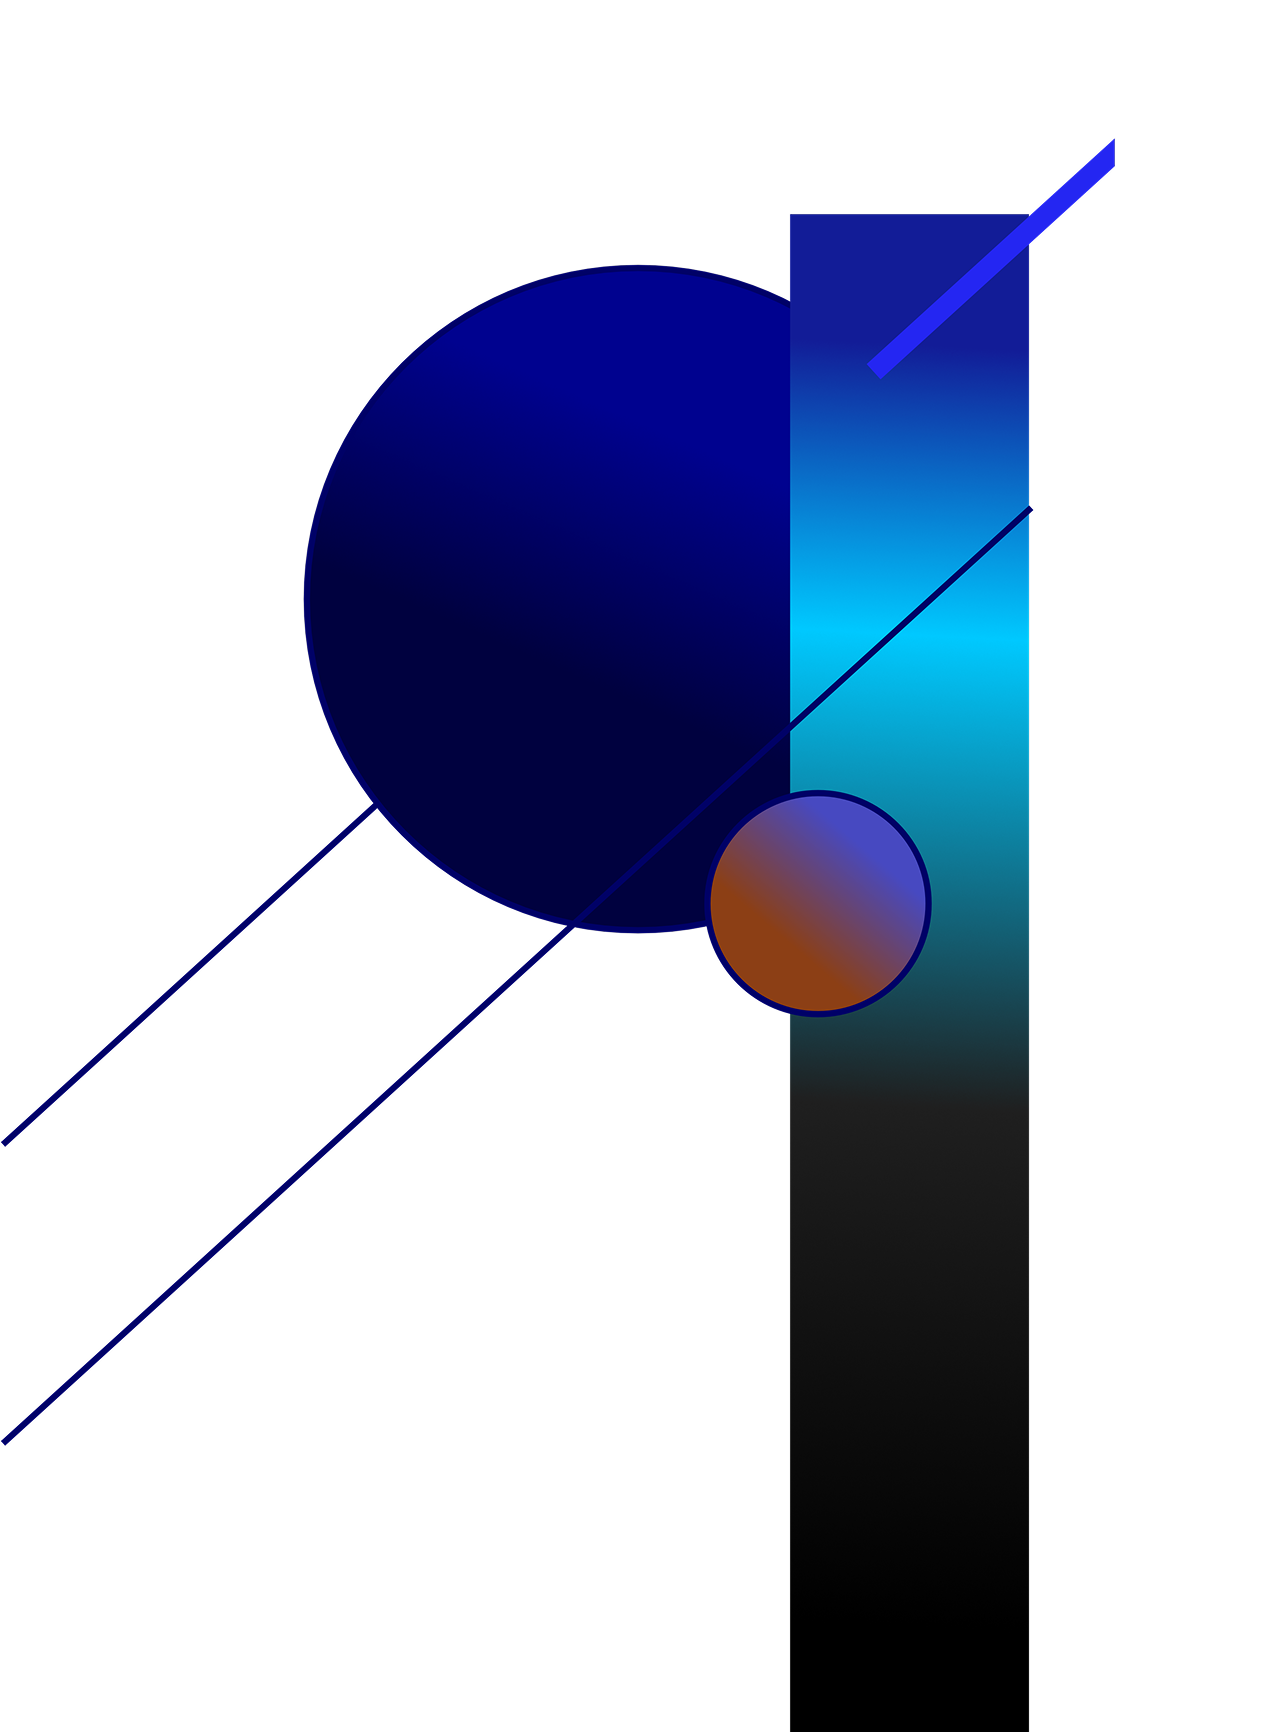
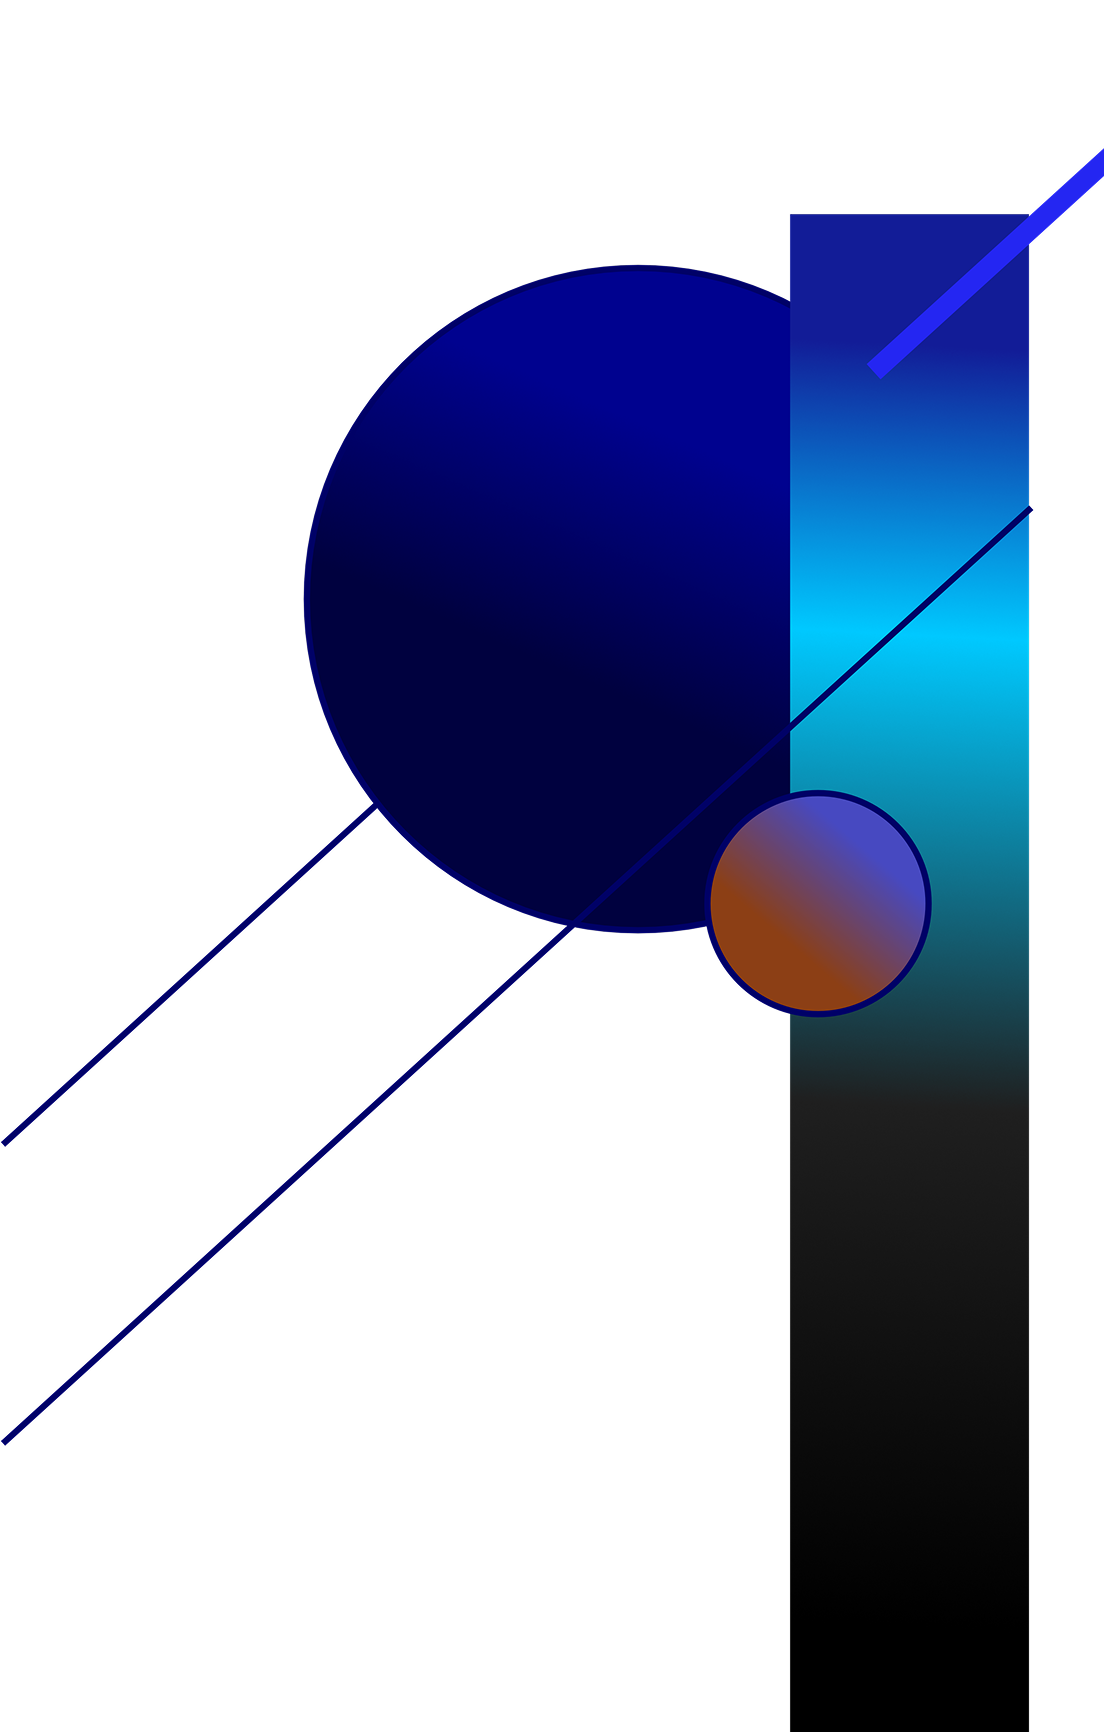
recent

diff --git a/index.html b/index.html
@@ -8,43 +8,36 @@
      <link rel="assets" href="img">
     <script src="https://kit.fontawesome.com/37c86ed8dc.js" crossorigin="anonymous"></script>
     <style>
-@import url('https://fonts.googleapis.com/css2?family=Space+Grotesk:wght@300..700&display=swap');
-@import url('https://fonts.googleapis.com/css2?family=Inconsolata:wght@200..900&display=swap');
-</style>
+       @import url('https://fonts.googleapis.com/css2?family=Space+Grotesk:wght@300..700&display=swap');
+      @import url('https://fonts.googleapis.com/css2?family=Inconsolata:wght@200..900&display=swap');
+       @import url('https://fonts.googleapis.com/css2?family=PT+Mono&display=swap');
+      
+      
+    </style>
 </head>
 <body>
-    <header>
-        <nav id="navbar">
-            <div class="logo"> <img src="/assets/img/centauri logo 1.png" alt=" logo-nav"></div>
+<header>
+    <nav class="navbar">
+       <img src="/assets/img/centauri logo 1.png" 
             <ul class="nav-links">  
-              <img src="/assets/img/profile-button.png" alt="profile-nav">
-              <button> log in</button>
+                <li><a href="#inicio">inicio</a></li>
+                <li><a href="#noticias">noticias</a></li>
+                <li><a href="#foro">foro</a></li>
+                <li><a href="#galeria">archivos</a></li>
             </ul>
-        </nav>
-    </header>
+    </nav>
+</header>
     <main> 
-
         <section id="inicio" class="hero"> 
-            <img src="/assets/img/header image.png" alt="background image">
+             
             <div class="hero-content">
-                 <div class="hero-text">
-                 <h1>COMUNIDAD ASTRONOMICA CENTAURI // forum !! </h1>
-                 <h2>Es necesario ver en lo más oscuro del cielo, lo brillante de las estrellas</h2>
-                 <p>Expertos en divulgación astronómica y aficionados dispuestos a compartir sus intereses y conocimientos. Aprende a travez de charlas y eventos organizados por la comunidad!</p>
-                <div class="search-bar">
-                    <input type="text" placeholder="search here" />
+                <div class="hero-text">
+                  <h1>COMUNIDAD ASTRONOMICA CENTAURI // forum !! </h1>
+                  <h2>Es necesario ver en lo más oscuro del cielo, lo brillante de las estrellas</h2>
+                   <p>Expertos en divulgación astronómica y aficionados dispuestos a compartir sus intereses y conocimientos. Aprende a travez de charlas y eventos organizados por la comunidad!</p>
+                   <a class="btn btn-primary" href="#"join us>Unete a la comunidad!</a>
                 </div>
             </div>
-                <div class="hero-container-list">
-                <img src="/assets/img/Image box.png" alt="imagen provisoria">
-                    <h2>Lorem Ipsum is simply dummy!!</h2>
-                        <ul class="contenidos">
-                          <li>Lorem Ipsum is simply dummy text of the printing and typesetting industry</li>
-                          <li>Lorem Ipsum is simply dummy text of the printing and typesetting industry</li>
-                          <li>Lorem Ipsum is simply dummy text of the printing and typesetting industry</li>
-                          <li>Lorem Ipsum is simply dummy text of the printing and typesetting industry</li>
-                        </ul>
-                </div>
         </section>
         <section id="body" class="cards">
             <div class="section-title">
@@ -53,7 +46,7 @@
             </div>
             <div class="cards-container">
                 <div class="card-image">
-                        <img src="/assets/img/image.png" alt="provisoria 1">
+                        <img src="/assets/img/Image box.png" alt="provisoria 1">
                 </div>
                 <div class="card-info">
                     <h3>Lorem ipsum is</h3>
@@ -107,6 +100,7 @@
                 <img src="/assets/img/Image Box gallery.png" alt="galeria imagen provisoria">
                 <img src="/assets/img/Image Box gallery.png" alt="galeria imagen provisoria">
                 <img src="/assets/img/Image Box gallery.png" alt="galeria imagen provisoria">
+
             </div>
             <div class="section-title">
               <h3>Galeria de la comunidad</h3>
@@ -120,10 +114,10 @@
         
         <section id="contact-us" class="contactanos">
             <div class="section-title">
-               <p>El sabio en su retiro es útil a la comunidad. El conocimiento que se guarda se estanca; el que se comparte, crece. </p> 
+                <h2>Quieres formar parte de las actualizaciones del foro/tienes un equipo de investigacion?
+                    <p>El sabio en su retiro es útil a la comunidad. El conocimiento que se guarda se estanca; el que se comparte, crece. </p> 
             </div>
-            <div>
-                <h2>Quieres formar parte de las actualizaciones del foro/tienes un equipo de investigacion?</h2>
+                </h2>
             </div>
             <div>
                 <h3>Quieres formar parte del blog? crea tu user aqui!</h3>

diff --git a/styles.css b/styles.css
@@ -1,0 +1,191 @@
+:root {
+    --Blue-bright: #1E45C5;
+    --Dark-bg : #171719;
+    --Darker-bg : #171719;
+    --light-text : #f5f5f5;
+    --Blue-base : #182051;
+    --Details-color : #BE4A1A;
+    --transition : all 0.3s ease;
+}
+* {
+    margin: 0;
+    padding: 0;
+    box-sizing: border-box;
+}
+html {
+    scroll-behavior: smooth;
+    scrollbar-color: var(--Blue-bright) var(--Dark-bg);
+}
+
+body {    
+    font-family: "Inconsolata", monospace;
+    font-optical-sizing: auto;
+    font-weight: 400;
+    font-style: normal;
+    width: 100;
+    background-color: var(--Dark-bg);   
+    color: var(--light-text);   
+    line-height: 1.6;
+}
+h1 {
+    font-size: 4.5rem;
+    font-family: "PT Mono", monospace;
+    font-style: normal;
+    font-weight: 400;
+
+}
+h2 {
+    font-family: "PT Mono", monospace;
+    font-size: 2.2rem;
+    font-weight: 600;
+}
+h3 {
+    font-family: "PT Mono", monospace;
+    font-size: 1.7 rem;
+    color: #1E45C5;
+}
+p {
+    font-size: 1.1rem;
+    color: var(--light-text);
+    margin-bottom: 1.5rem;
+    max-width: 600px;
+}
+section {
+    padding: 2rem 5%;
+    max-width: 1400px;
+    margin: 0 auto;
+}
+.section-title {
+    margin-bottom: 3rem;
+    text-align: center; 
+    position: relative;
+    padding-bottom: 1rem;
+    font-family: "Space Grotesk", sans-serif;
+}
+nav{
+
+}
+.navbar {
+    display: flex;
+    justify-content: space-between;
+    align-items: center;
+    padding: 0.5rem 5%;
+    width: 1440;
+    margin: 0 auto;
+    background-color: #171719;
+}
+.nav-links {
+    display:flex;
+    gap: 1rem;
+    font-family: "pt mono", monospace;
+    font-size: 2rem;
+}
+.hero{
+    background-image:-webkit-image-set("/assets/img/header image.png");
+    background-repeat: no-repeat; 
+    background-color: #182051;
+    background-size:contain;
+    background-position: top right;
+    
+}
+.hero-content {
+  display: flex;
+  align-items:left;
+  gap: 5rem;
+  border-left: 3px solid var(--Blue-bright);
+  align-content: flex-start;
+  margin-bottom: 15%;
+}
+.hero-content h2{
+    color: #f5f5f5;
+    font-size: 1.5rem;
+}
+.btn {
+    display: inline-block;
+    padding: 0.8rem 1.5rem;
+    border-radius: 10px;
+    cursor: pointer;
+    transition: var(--transition);
+    border: none;
+    font-weight: 700;
+    font-family: monospace;
+    font-size: 1.3rem;
+    background-color: #f5f5f5;
+}
+.btn:hover {
+    transform: translateY(-3px);
+    box-shadow: 0 5px 15px rgba(108, 99, 255, 0.3);
+}
+.hero {
+    min-height: 100vh;
+    display: flex;
+    padding-top: 5rem;
+    
+}
+.hero-content {
+    display: flex;
+    justify-content: space-between;
+    align-items: center;
+    gap: 3rem;
+    border-left: 3px solid var(--Blue-bright);
+    padding-left: 50px;
+}
+.hero-container{
+    background-repeat: no-repeat; 
+    background-position: top right;
+    background-color: black;
+    background-size: cover;
+    display: grid;
+    grid-template-columns: repeat(auto-fill, minmax(300px, 1fr));
+    gap: 2rem;
+    padding-left: 1rem 5%;
+    position: relative;
+}
+.hero-container-img{
+
+
+}
+.hero-container-list {
+    padding: 1.5rem;
+    flex-grow: 1;
+    display: flex;
+    flex-direction: column;
+}
+
+.archivegallery-container {
+    width: 100%;
+    max-width:fit-content
+    margin:40px auto;
+    display: grid;
+    grid-template-columns: repeat(auto-fit, minmax(300px, 1fr));
+    gap: 20px;
+}
+.archivegallery-container img{
+    height: 100%;
+    align-items: center;
+    border-radius: 5px;
+    transition: var(--transition)
+}
+.archivegallery-container img:hover {
+    transform: scale(1.03);
+    box-shadow: 0 0 30px rgba(108, 99, 255, 0.5);
+}
+.communitygallery-container{
+     width: 100%;
+    max-width:fit-content
+    margin:40px auto;
+    display: grid;
+    grid-template-columns: repeat(auto-fit, minmax(300px, 1fr));
+    gap: 20px;
+}
+.communitygallery-container img {
+    height: 100%;
+    align-items: center;
+    border-radius: 5px;
+    transition: var(--transition)
+}
+.communitygallery-container img:hover {
+     transform: scale(1.03);
+    box-shadow: 0 0 50px rgba(108, 99, 255, 0.5);
+
+}
